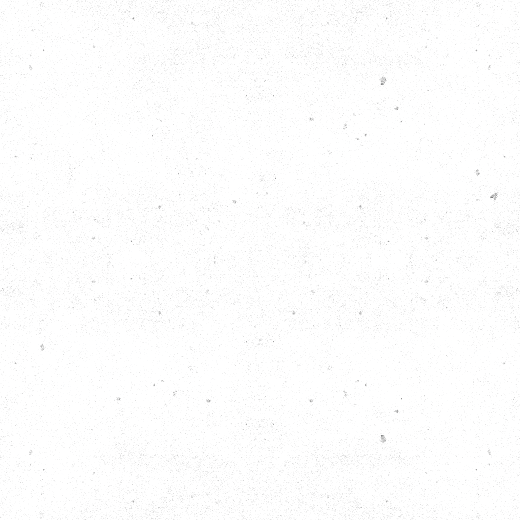
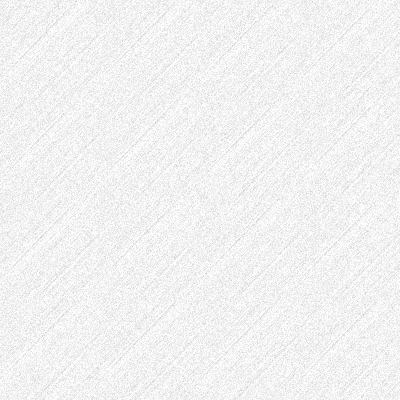
fixed the ugly texture with the rust page

diff --git a/pages/rust.css b/pages/rust.css
@@ -10,8 +10,7 @@ body, h1, h2, h3, p, ul, li, a {
 body {
     font-family: 'Open Sans', sans-serif;
     line-height: 1.8;
-    background: #9f8572 url("../images/rust_wall.png") no-repeat center center fixed;
-    background-size: cover;
+    background: #9f8572 url("../images/rust_wall.png");
     color: #4b3f3a;
 }
 
@@ -86,7 +85,7 @@ body {
 .blog-section {
     margin-bottom: 30px;
     padding: 20px;
-    background: #f8f8f8;
+    background: #e8e8e8;
     border-radius: 10px;
     box-shadow: 0 2px 8px rgba(0, 0, 0, 0.1);
     border: 1px solid #e0e0e0;

diff --git a/pages/php.css b/pages/php.css
@@ -95,7 +95,7 @@ body {
 .blog-section, .section {
     margin-bottom: 30px;
     padding: 20px;
-    background: #ffffff; 
+    background: #e8e8e8; 
     border-radius: 10px;
     box-shadow: 0 2px 8px rgba(0, 0, 0, 0.1);
     border: 1px solid #e0e0e0;
